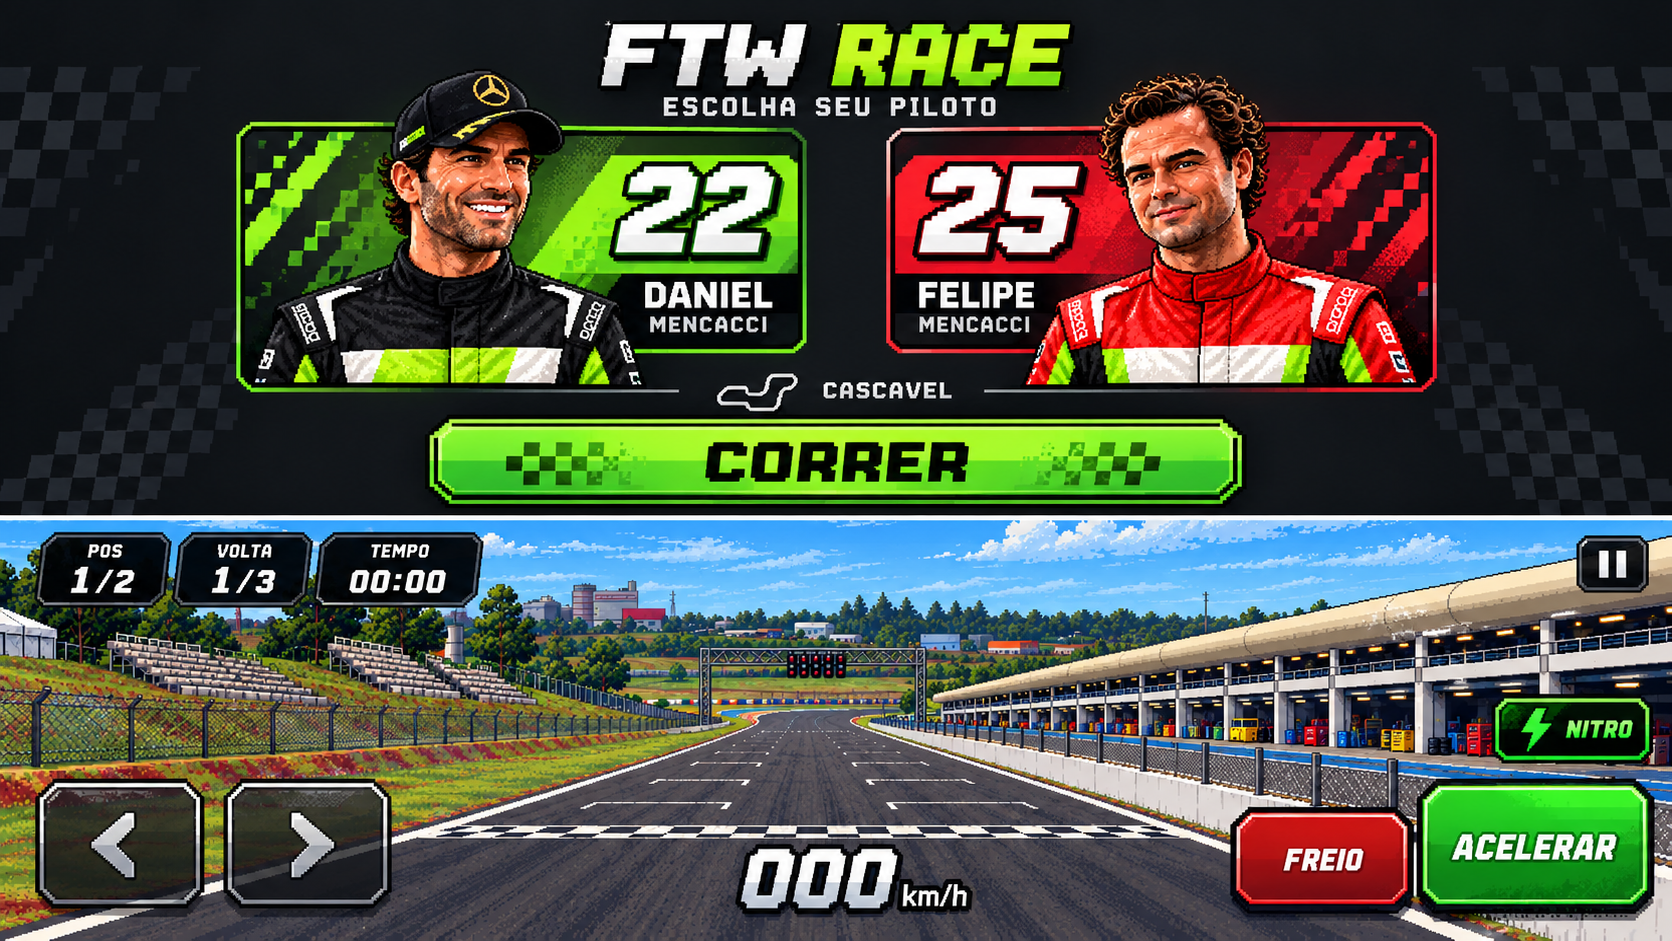
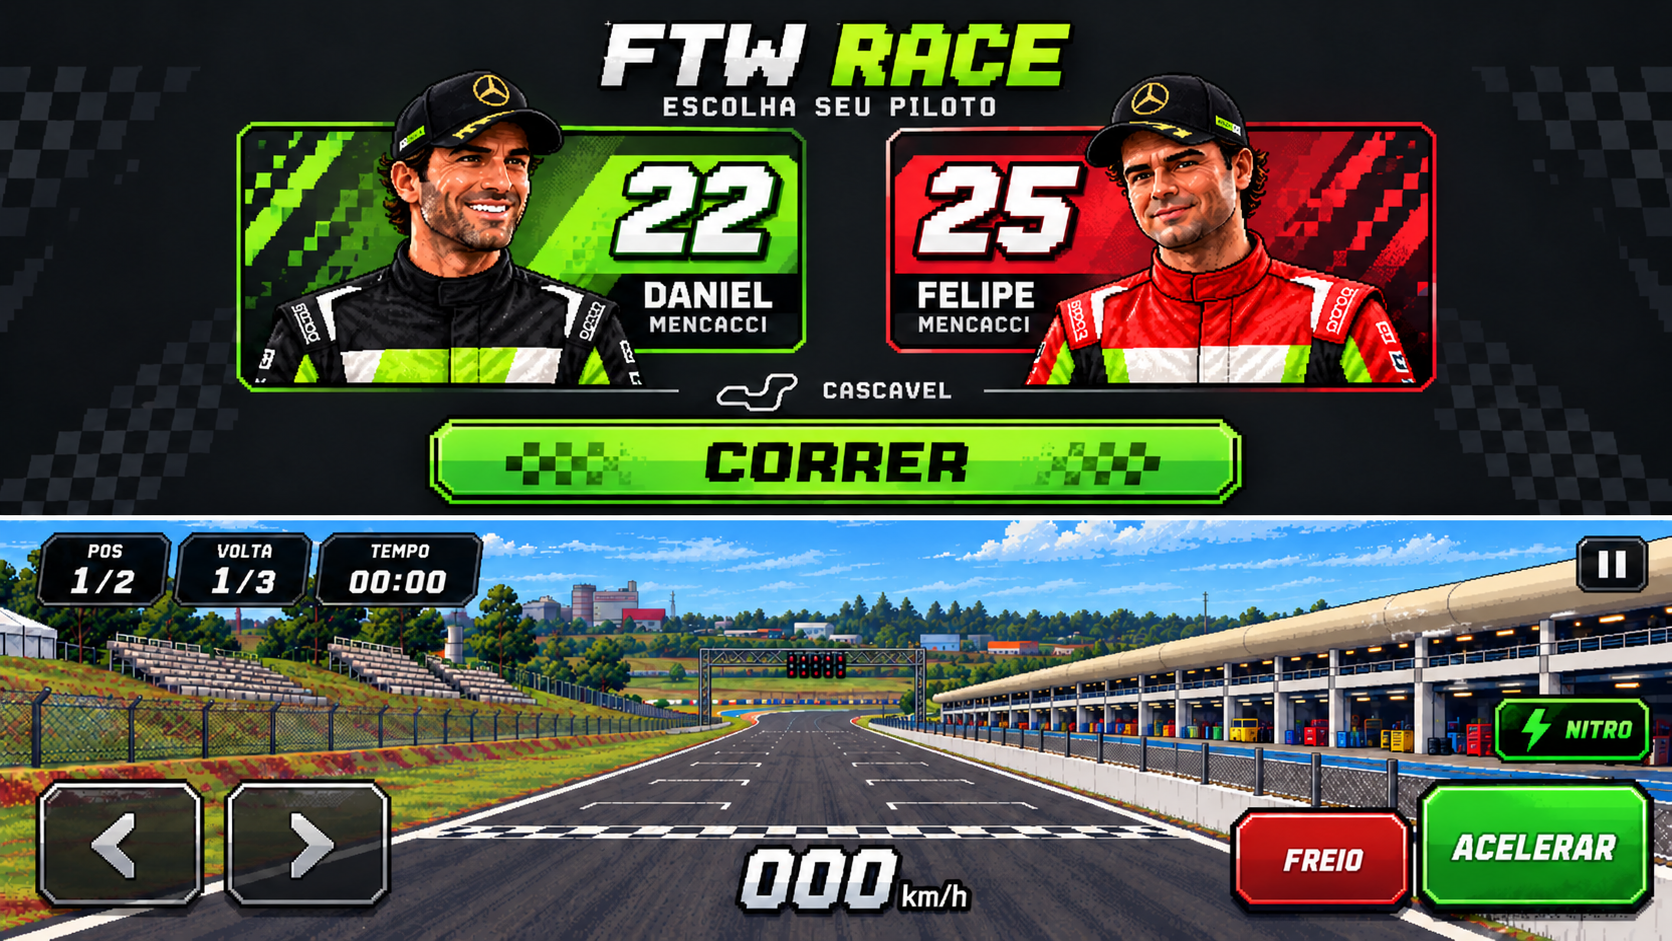
assets: adicionar lata Diabo Verde e previa de Felipe com bone

diff --git a/AGENTS.md b/AGENTS.md
@@ -20,3 +20,7 @@ Ao encerrar: commit das mudanças e atualização de docs/06_CHANGELOG_E_PENDENC
 Referências visuais e sprites serão criados/revisados com o usuário neste chat e enviados ao repositório. Codex integra, organiza e testa os assets aprovados; não substituí-los por novas artes sem solicitação. Ler docs/08_MOBILE_E_PIPELINE_DE_SPRITES.md. Não declarar artes ainda não recebidas como existentes. Avançar com placeholders identificados apenas para validar mecânicas.
 
 Atualização 31/10/2026: ler docs/09_ENTREGA_VISUAL_E_CONTINUIDADE.md primeiro para decisões atuais. Procedural moderado autorizado para a pista e repetição de elementos do entorno. Isso não substitui a identidade dos carros/pilotos nem decide automaticamente a engine. Prévias existem em assets/previews/, referências em referencias/. Preparar alpha, pivôs, escala e estados antes de integração.
+
+
+## Atualização — lata recebida e Felipe com boné (31/10/2026)
+Referências da lata Diabo Verde Pré-Workout, sabor Maçã Verde, 269 ml recebidas em referencias/marcas-e-produto/: frente, verso, apresentação e captura da página enviada pelo usuário. Esta atualização substitui as menções anteriores à lata pendente. Preservar formato alto/estreito, corpo preto, faixa verde, nome vertical e logo FTW do rótulo. A foto frontal é a referência principal para preparar o ícone e a animação; não incorporar os quadros promocionais laterais ao sprite. Logos independentes/vetoriais continuam pendentes; as marcas visíveis no rótulo já têm referência. Quantidade de nitro e demais regras continuam provisórias. A prévia assets/previews/ui/proposta-selecao-e-hud.png foi atualizada com Felipe de boné preto, conforme solicitado. Não há integração ou teste de gameplay nesta atualização.

diff --git a/PROMPT_CODEX.md b/PROMPT_CODEX.md
@@ -12,3 +12,7 @@ Após resolver dependências essenciais, implemente e teste uma corrida completa
 Nitro Diabo Verde aprovado; lata/logos originais ainda pendentes. Duas cargas, três voltas e layout horizontal são hipóteses configuráveis, não decisões finais. Não inventar embalagem. Áudio original ou licenciado, com procedência registrada.
 
 Medir desempenho e testar multitouch no alvo; registrar o que passou, falhou ou não foi testado. Não chamar mockups de screenshots do jogo. Ao terminar, entregar fonte, build quando realmente validado, instruções e limitações, atualizar changelog e commitar. Não publicar nem gastar sem autorização.
+
+
+## Atualização — lata recebida e Felipe com boné (31/10/2026)
+Referências da lata Diabo Verde Pré-Workout, sabor Maçã Verde, 269 ml recebidas em referencias/marcas-e-produto/: frente, verso, apresentação e captura da página enviada pelo usuário. Esta atualização substitui as menções anteriores à lata pendente. Preservar formato alto/estreito, corpo preto, faixa verde, nome vertical e logo FTW do rótulo. A foto frontal é a referência principal para preparar o ícone e a animação; não incorporar os quadros promocionais laterais ao sprite. Logos independentes/vetoriais continuam pendentes; as marcas visíveis no rótulo já têm referência. Quantidade de nitro e demais regras continuam provisórias. A prévia assets/previews/ui/proposta-selecao-e-hud.png foi atualizada com Felipe de boné preto, conforme solicitado. Não há integração ou teste de gameplay nesta atualização.

diff --git a/docs/06_CHANGELOG_E_PENDENCIAS.md b/docs/06_CHANGELOG_E_PENDENCIAS.md
@@ -23,3 +23,7 @@ Fotos recebidas, 16 pranchas de geração organizadas e 24 referências selecion
 Incluídos manifesto, galeria, inventário técnico e prompt de continuidade. Preservados os documentos anteriores como histórico, com aviso prioritário.
 Verificação desta etapa: abertura/leitura dos arquivos de imagem e manifesto com dimensões/bytes/SHA-256. Não houve build, teste de gameplay ou teste mobile.
 Próximos passos atuais substituem a lista antiga: preparar sprites, validar mapa, resolver distribuição/engine/modo, implementar, testar. Lata e logos originais pendentes.
+
+
+## Atualização — lata recebida e Felipe com boné (31/10/2026)
+Referências da lata Diabo Verde Pré-Workout, sabor Maçã Verde, 269 ml recebidas em referencias/marcas-e-produto/: frente, verso, apresentação e captura da página enviada pelo usuário. Esta atualização substitui as menções anteriores à lata pendente. Preservar formato alto/estreito, corpo preto, faixa verde, nome vertical e logo FTW do rótulo. A foto frontal é a referência principal para preparar o ícone e a animação; não incorporar os quadros promocionais laterais ao sprite. Logos independentes/vetoriais continuam pendentes; as marcas visíveis no rótulo já têm referência. Quantidade de nitro e demais regras continuam provisórias. A prévia assets/previews/ui/proposta-selecao-e-hud.png foi atualizada com Felipe de boné preto, conforme solicitado. Não há integração ou teste de gameplay nesta atualização.

diff --git a/docs/07_NITRO_DIABO_VERDE.md b/docs/07_NITRO_DIABO_VERDE.md
@@ -36,3 +36,7 @@ Não presumir patrocínio real nem substituir pinturas reais dos carros por uma 
 ## Aceitação futura
 Testar ativação única, consumo correto, limite zero, duração, transição de velocidade, pausa, reinício, colisões, chegada, inputs simultâneos e igualdade de regras entre pilotos.
 Verificar arte contra referências oficiais. Registrar desempenho e evidências reais. Estado atual: NÃO IMPLEMENTADO / NÃO TESTADO.
+
+
+## Atualização — lata recebida e Felipe com boné (31/10/2026)
+Referências da lata Diabo Verde Pré-Workout, sabor Maçã Verde, 269 ml recebidas em referencias/marcas-e-produto/: frente, verso, apresentação e captura da página enviada pelo usuário. Esta atualização substitui as menções anteriores à lata pendente. Preservar formato alto/estreito, corpo preto, faixa verde, nome vertical e logo FTW do rótulo. A foto frontal é a referência principal para preparar o ícone e a animação; não incorporar os quadros promocionais laterais ao sprite. Logos independentes/vetoriais continuam pendentes; as marcas visíveis no rótulo já têm referência. Quantidade de nitro e demais regras continuam provisórias. A prévia assets/previews/ui/proposta-selecao-e-hud.png foi atualizada com Felipe de boné preto, conforme solicitado. Não há integração ou teste de gameplay nesta atualização.

diff --git a/docs/09_ENTREGA_VISUAL_E_CONTINUIDADE.md b/docs/09_ENTREGA_VISUAL_E_CONTINUIDADE.md
@@ -60,3 +60,7 @@ Implementar os estados de pausa/resultado como componentes coerentes com o mocku
 5. Produzir áudio próprio/licenciado, testar gameplay e mobile, corrigir e entregar build com evidências.
 
 Ainda dependem do usuário: lata Diabo Verde e logos originais. Ainda dependem de implementação: todos os sprites derivados, animações, física, áudio, interface funcional, testes e build.
+
+
+## Atualização — lata recebida e Felipe com boné (31/10/2026)
+Referências da lata Diabo Verde Pré-Workout, sabor Maçã Verde, 269 ml recebidas em referencias/marcas-e-produto/: frente, verso, apresentação e captura da página enviada pelo usuário. Esta atualização substitui as menções anteriores à lata pendente. Preservar formato alto/estreito, corpo preto, faixa verde, nome vertical e logo FTW do rótulo. A foto frontal é a referência principal para preparar o ícone e a animação; não incorporar os quadros promocionais laterais ao sprite. Logos independentes/vetoriais continuam pendentes; as marcas visíveis no rótulo já têm referência. Quantidade de nitro e demais regras continuam provisórias. A prévia assets/previews/ui/proposta-selecao-e-hud.png foi atualizada com Felipe de boné preto, conforme solicitado. Não há integração ou teste de gameplay nesta atualização.

diff --git a/README.md b/README.md
@@ -11,3 +11,7 @@ Preparação visual de corrida arcade mobile inspirada na experiência de Top Ge
 5. [Referências](referencias/README.md).
 
 Fotos enviadas pelo usuário e artes geradas são preservadas separadamente. O vídeo de Top Gear já existente serve apenas ao estudo. Logos originais e embalagem Diabo Verde continuam pendentes. Não substituir esses materiais por marcas inventadas.
+
+
+## Atualização — lata recebida e Felipe com boné (31/10/2026)
+Referências da lata Diabo Verde Pré-Workout, sabor Maçã Verde, 269 ml recebidas em referencias/marcas-e-produto/: frente, verso, apresentação e captura da página enviada pelo usuário. Esta atualização substitui as menções anteriores à lata pendente. Preservar formato alto/estreito, corpo preto, faixa verde, nome vertical e logo FTW do rótulo. A foto frontal é a referência principal para preparar o ícone e a animação; não incorporar os quadros promocionais laterais ao sprite. Logos independentes/vetoriais continuam pendentes; as marcas visíveis no rótulo já têm referência. Quantidade de nitro e demais regras continuam provisórias. A prévia assets/previews/ui/proposta-selecao-e-hud.png foi atualizada com Felipe de boné preto, conforme solicitado. Não há integração ou teste de gameplay nesta atualização.

diff --git a/referencias/marcas-e-produto/README.md b/referencias/marcas-e-produto/README.md
@@ -1,4 +1,10 @@
-# Referências pendentes — FTW e Diabo Verde
-O usuário enviará: lata Diabo Verde pré-workout, logo FTW e logo Diabo Verde.
-Preservar originais e registrar procedência. Preferir fotos legíveis da frente/laterais da lata e logos originais com transparência quando disponíveis.
-Nenhum desses arquivos foi recebido nesta etapa. Não usar logos inventados ou reconstruídos.
+# Diabo Verde — referências recebidas
+
+Produto indicado pelo usuário: Diabo Verde Pré-Workout Maçã Verde, lata de 269 ml.
+
+- diabo-verde-269ml-maca-verde-frente.png: principal para aparência da lata.
+- diabo-verde-269ml-maca-verde-verso.png: referência posterior do rótulo.
+- diabo-verde-269ml-maca-verde-apresentacao.png: composição promocional; não é sprite recortado.
+- pagina-produto-enviada.jpg: captura de contexto da página, fornecida pelo usuário.
+
+Originais preservados sem edição. Manter corpo preto, faixa verde, proporções, nome vertical e marcas do rótulo. Preparar recorte/escala para o jogo; não inventar embalagem. Logos separados/vetoriais ainda não recebidos. Não confundir efeitos fictícios do nitro com alegações sobre o produto real.
